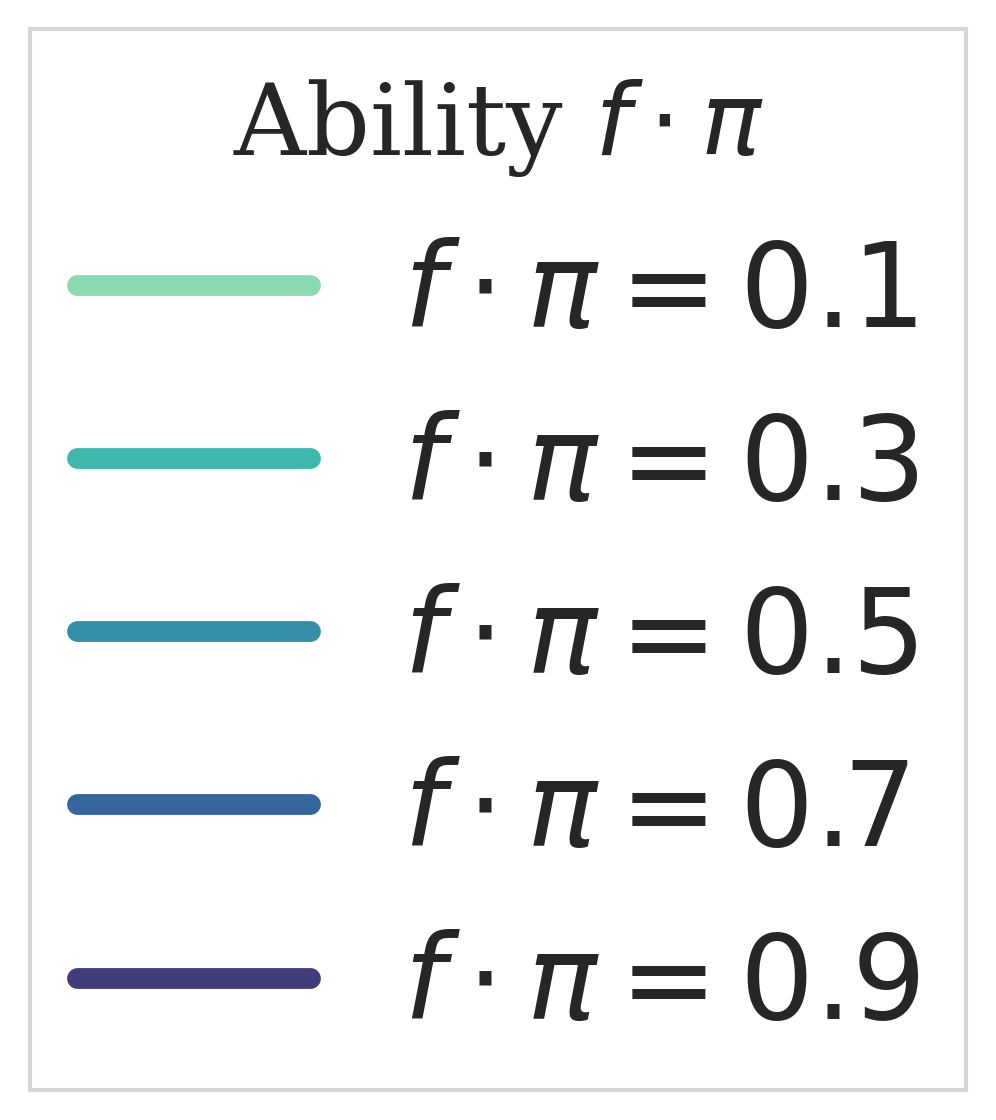
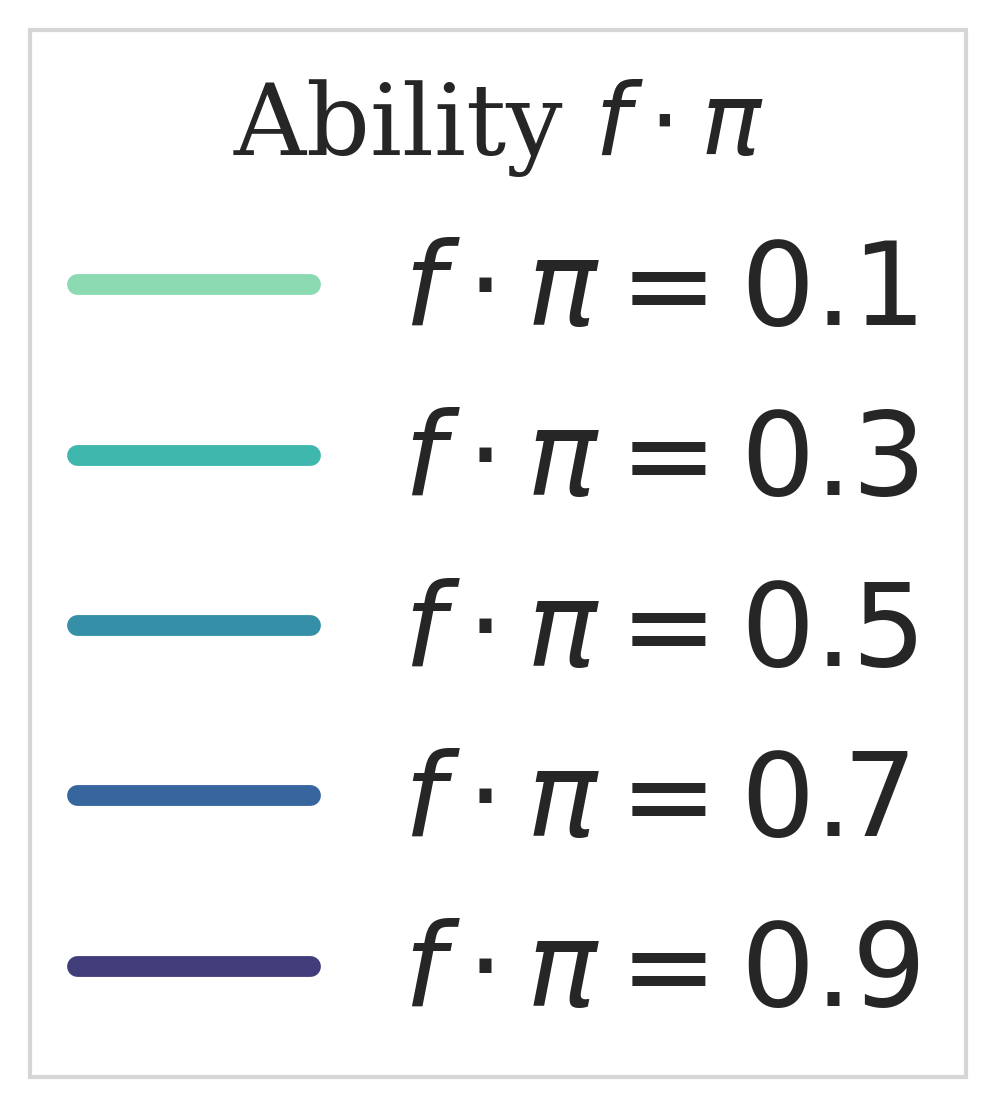
100% stack plot

diff --git a/plots/theory/restaking.py b/plots/theory/restaking.py
@@ -73,107 +73,189 @@ def create_builder_growth_theory_plot():
 
 
 def create_stake_evolution_plot():
-    """Create the plot showing builder stake evolution over time slots."""
+    """Create a stacked 100% area chart showing builder stake proportions over time.
+    Shows how richer entities become increasingly dominant."""
     
     # Parameters
     total_stake = 1000
     gamma_Bi = 0.8
     v_i_T = 10
     
-    # Different fπ values
-    f_pi_values = [0.1, 0.3, 0.5, 0.7, 0.9]
+    # Create multiple entities with different initial stakes (same ability)
+    # All entities have the same ability (f_pi), only initial stake differs
+    f_pi = 0.5  # Same ability for all
+    entities = [
+        {'initial_stake': 400, 'f_pi': f_pi, 'label': 'Initial Stake: 40%', 'color': palette[0]},
+        {'initial_stake': 200, 'f_pi': f_pi, 'label': 'Initial Stake: 20%', 'color': palette[2]},
+        {'initial_stake': 100, 'f_pi': f_pi, 'label': 'Initial Stake: 10%', 'color': palette[3]},
+        {'initial_stake': 50, 'f_pi': f_pi, 'label': 'Initial Stake: 5%', 'color': palette[4]},
+    ]
     
-    # Single initial stake (small starting point)
-    initial_stake = 10  # Start with 1% of total stake
-    s_initial = initial_stake
+    # Remaining stake goes to "others" (passive, no growth)
+    initial_others = total_stake - sum(e['initial_stake'] for e in entities)
     
-    # Time slots - more blocks
+    # Time slots
     time_slots = np.arange(0, 201)  # 0 to 200 slots
     
-    # Create the plot
-    fig, ax = plt.subplots(figsize=(8, 6))
+    # Track stake evolution for each entity
+    all_stakes = {i: [] for i in range(len(entities))}
+    others_stakes = []
     
-    # Plot for each fπ value
-    for i, f_pi in enumerate(f_pi_values):
-        # Calculate stake evolution
-        stakes = [s_initial]
-        
-        for slot in range(1, len(time_slots)):
-            # Calculate growth rate
-            growth_rate = builder_growth_rate(f_pi, stakes[-1], total_stake, gamma_Bi, v_i_T)
-            # Update stake
-            new_stake = stakes[-1] * growth_rate
-            stakes.append(new_stake)
-        
-        # Plot the line
-        ax.plot(time_slots, stakes, 
-                linewidth=5, color=palette[i], label=rf'$f \cdot \pi = {f_pi}$')
+    # Initialize
+    for entity in entities:
+        all_stakes[entities.index(entity)].append(entity['initial_stake'])
+    others_stakes.append(initial_others)
     
-    # Remove total stake line - will be handled in separate legend
+    # Evolve over time
+    for slot in range(1, len(time_slots)):
+        current_total = sum(all_stakes[i][-1] for i in range(len(entities))) + others_stakes[-1]
+        
+        # Update each entity's stake
+        for i, entity in enumerate(entities):
+            current_stake = all_stakes[i][-1]
+            growth_rate = builder_growth_rate(entity['f_pi'], current_stake, current_total, gamma_Bi, v_i_T)
+            new_stake = current_stake * growth_rate
+            all_stakes[i].append(new_stake)
+        
+        # Others remain constant (no growth)
+        others_stakes.append(others_stakes[-1])
+    
+    # Calculate proportions (percentages) relative to actual total at each time step
+    proportions = {}
+    for i in range(len(entities)):
+        proportions[i] = []
+    others_proportions = []
+    
+    for t in range(len(time_slots)):
+        current_total = sum(all_stakes[i][t] for i in range(len(entities))) + others_stakes[t]
+        for i in range(len(entities)):
+            proportions[i].append(all_stakes[i][t] / current_total * 100)
+        others_proportions.append(others_stakes[t] / current_total * 100)
+    
+    # Create stacked area chart
+    fig, ax = plt.subplots(figsize=(10, 6))
+    
+    # Stack the areas from bottom to top
+    bottom = np.zeros(len(time_slots))
+    
+    # Plot each entity (from richest to poorest for visual clarity)
+    for i in range(len(entities)):
+        ax.fill_between(time_slots, bottom, bottom + proportions[i], 
+                       color=entities[i]['color'], alpha=0.7, 
+                       label=entities[i]['label'], linewidth=0)
+        bottom += proportions[i]
+    
+    # Plot "others" on top
+    ax.fill_between(time_slots, bottom, bottom + others_proportions,
+                   color='lightgray', alpha=0.5, label='Others (No Growth)', linewidth=0)
+    
+    # Add grid for better readability
+    ax.grid(True, alpha=0.2, linestyle='-', linewidth=0.5)
     
     # Customize the plot
     ax.set_xlabel(r'Time Slot $\ell$', fontsize=30)
-    ax.set_ylabel(r'Builder Stake $s_{B_i}$ (%)', fontsize=30)
+    ax.set_ylabel(r'Stake Proportion (%)', fontsize=30)
     ax.set_xlim(0, 200)
-    ax.set_ylim(0, total_stake)  # Stop at 100%
+    ax.set_ylim(0, 100)
+    ax.set_yticks([0, 25, 50, 75, 100])
+    ax.set_yticklabels(['0%', '25%', '50%', '75%', '100%'])
     
-    # Convert y-axis to percentage
-    ax.yaxis.set_major_formatter(plt.FuncFormatter(lambda y, _: f'{y/total_stake*100:.0f}'))
-    
-    # Remove legend from plot - will be created separately
+    # Add legend (smaller size)
+    ax.legend(loc='lower right', fontsize=14, frameon=True, fancybox=False, shadow=False)
     
     plt.tight_layout()
     return fig
 
 def create_proposer_stake_evolution_plot():
-    """Create the plot showing proposer stake evolution over time slots."""
+    """Create a stacked 100% area chart showing proposer stake proportions over time.
+    Shows how richer entities become increasingly dominant."""
     
     # Parameters
     total_stake = 1000
     gamma_Pi = 0.8
     b_i_T = 10  # Fixed proposer reward
     
-    # Different f·π values (same as builder)
-    f_pi_values = [0.1, 0.3, 0.5, 0.7, 0.9]
+    # Create multiple entities with different initial stakes (same ability)
+    # All entities have the same ability (f_pi), only initial stake differs
+    f_pi = 0.5  # Same ability for all
+    entities = [
+        {'initial_stake': 400, 'f_pi': f_pi, 'label': 'Initial Stake: 40%', 'color': palette[0]},
+        {'initial_stake': 200, 'f_pi': f_pi, 'label': 'Initial Stake: 20%', 'color': palette[2]},
+        {'initial_stake': 100, 'f_pi': f_pi, 'label': 'Initial Stake: 10%', 'color': palette[3]},
+        {'initial_stake': 50, 'f_pi': f_pi, 'label': 'Initial Stake: 5%', 'color': palette[4]},
+    ]
     
-    # Single initial stake (small starting point)
-    initial_stake = 10  # Start with 1% of total stake
-    s_initial = initial_stake
+    # Remaining stake goes to "others" (passive, no growth)
+    initial_others = total_stake - sum(e['initial_stake'] for e in entities)
     
-    # Time slots - more blocks
+    # Time slots
     time_slots = np.arange(0, 201)  # 0 to 200 slots
     
-    # Create the plot
-    fig, ax = plt.subplots(figsize=(8, 6))
+    # Track stake evolution for each entity
+    all_stakes = {i: [] for i in range(len(entities))}
+    others_stakes = []
     
-    # Plot for each f·π value
-    for i, f_pi in enumerate(f_pi_values):
-        # Calculate stake evolution
-        stakes = [s_initial]
-        
-        for slot in range(1, len(time_slots)):
-            # Calculate growth rate
-            growth_rate = proposer_growth_rate(f_pi, stakes[-1], total_stake, gamma_Pi, b_i_T)
-            # Update stake
-            new_stake = stakes[-1] * growth_rate
-            stakes.append(new_stake)
-        
-        # Plot the line
-        ax.plot(time_slots, stakes, 
-                linewidth=5, color=palette[i], label=rf'$f \cdot \pi = {f_pi}$')
+    # Initialize
+    for entity in entities:
+        all_stakes[entities.index(entity)].append(entity['initial_stake'])
+    others_stakes.append(initial_others)
     
-    # Remove total stake line - will be handled in separate legend
+    # Evolve over time
+    for slot in range(1, len(time_slots)):
+        current_total = sum(all_stakes[i][-1] for i in range(len(entities))) + others_stakes[-1]
+        
+        # Update each entity's stake
+        for i, entity in enumerate(entities):
+            current_stake = all_stakes[i][-1]
+            growth_rate = proposer_growth_rate(entity['f_pi'], current_stake, current_total, gamma_Pi, b_i_T)
+            new_stake = current_stake * growth_rate
+            all_stakes[i].append(new_stake)
+        
+        # Others remain constant (no growth)
+        others_stakes.append(others_stakes[-1])
+    
+    # Calculate proportions (percentages) relative to actual total at each time step
+    proportions = {}
+    for i in range(len(entities)):
+        proportions[i] = []
+    others_proportions = []
+    
+    for t in range(len(time_slots)):
+        current_total = sum(all_stakes[i][t] for i in range(len(entities))) + others_stakes[t]
+        for i in range(len(entities)):
+            proportions[i].append(all_stakes[i][t] / current_total * 100)
+        others_proportions.append(others_stakes[t] / current_total * 100)
+    
+    # Create stacked area chart
+    fig, ax = plt.subplots(figsize=(10, 6))
+    
+    # Stack the areas from bottom to top
+    bottom = np.zeros(len(time_slots))
+    
+    # Plot each entity (from richest to poorest for visual clarity)
+    for i in range(len(entities)):
+        ax.fill_between(time_slots, bottom, bottom + proportions[i], 
+                       color=entities[i]['color'], alpha=0.7, 
+                       label=entities[i]['label'], linewidth=0)
+        bottom += proportions[i]
+    
+    # Plot "others" on top
+    ax.fill_between(time_slots, bottom, bottom + others_proportions,
+                   color='lightgray', alpha=0.5, label='Others (No Growth)', linewidth=0)
+    
+    # Add grid for better readability
+    ax.grid(True, alpha=0.2, linestyle='-', linewidth=0.5)
     
     # Customize the plot
     ax.set_xlabel(r'Time Slot $\ell$', fontsize=30)
-    ax.set_ylabel(r'Proposer Stake $s_{{P_i}}$ (%)', fontsize=30)
+    ax.set_ylabel(r'Stake Proportion (%)', fontsize=30)
     ax.set_xlim(0, 200)
-    ax.set_ylim(0, total_stake)  # Stop at 100%
+    ax.set_ylim(0, 100)
+    ax.set_yticks([0, 25, 50, 75, 100])
+    ax.set_yticklabels(['0%', '25%', '50%', '75%', '100%'])
     
-    # Convert y-axis to percentage
-    ax.yaxis.set_major_formatter(plt.FuncFormatter(lambda y, _: f'{y/total_stake*100:.0f}'))
-    
-    # Remove legend from plot - will be created separately
+    # Add legend (smaller size)
+    ax.legend(loc='lower right', fontsize=14, frameon=True, fancybox=False, shadow=False)
     
     plt.tight_layout()
     return fig
